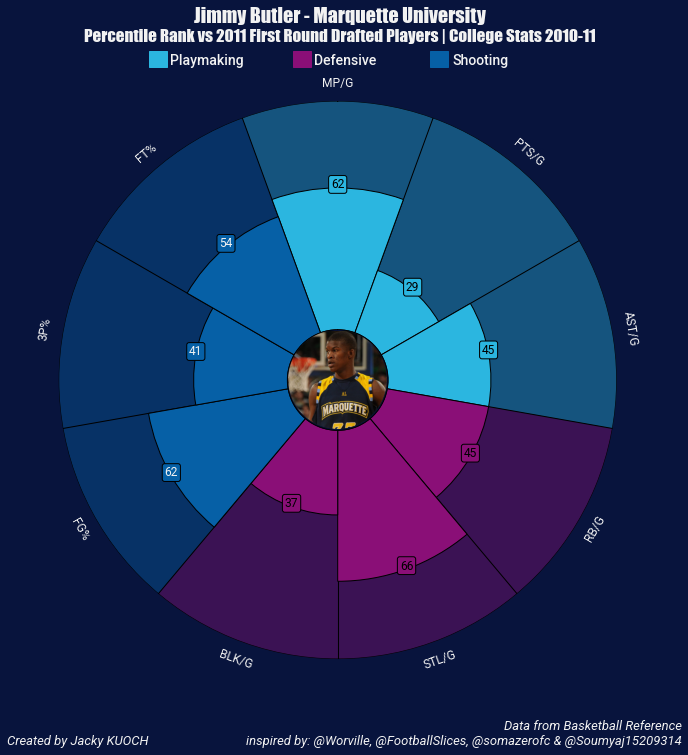
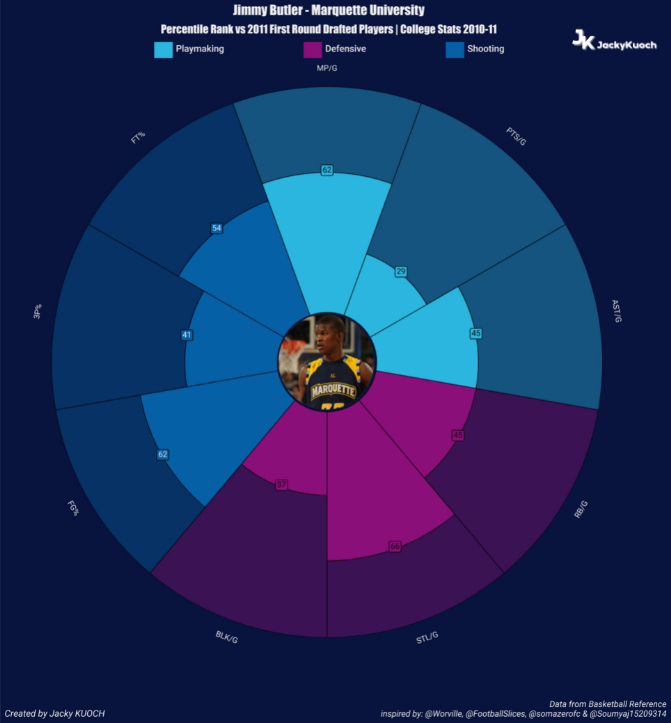
Add plots with better quality

diff --git a/articles/jimmybutler.html b/articles/jimmybutler.html
@@ -145,7 +145,7 @@
             Life as a rookie is never easy, especially when you are not in the first selected players. In Chicago, limited opportunites were offered to Jimmy during his rookie year which saw the lockout shorten the 2011-12 season. But his profile and his desire to show his worth made him a regular player in the Bulls rotation taking part in the 82 games of the following season. His third season saw him become a starter and take on more responsabilities in the Bulls playmaking.
           </p>
 
-          <img src="../assets/img/portfolio/butler/butler_career_stats.jpg" class="img-fluid" alt="">
+          <img src="../assets/img/portfolio/butler/butler_career_stats.png" class="img-fluid" alt="">
 
           <p>
             As we see on the plot, this third season marked a significant rise in terms of points scored but also in terms of assists and rebounds. For the people who followed the NBA back in the days, this coincided with the multiple injuries that Derrick Rose suffered. Rose, 2011 NBA MVP and Chicago Bulls point guard was a fundamental player in the Bulls system but due to these injuries someone had to step up and that's what Jimmy did. He was already known for his defensive skills but his offense was still a problem and needed work. 
